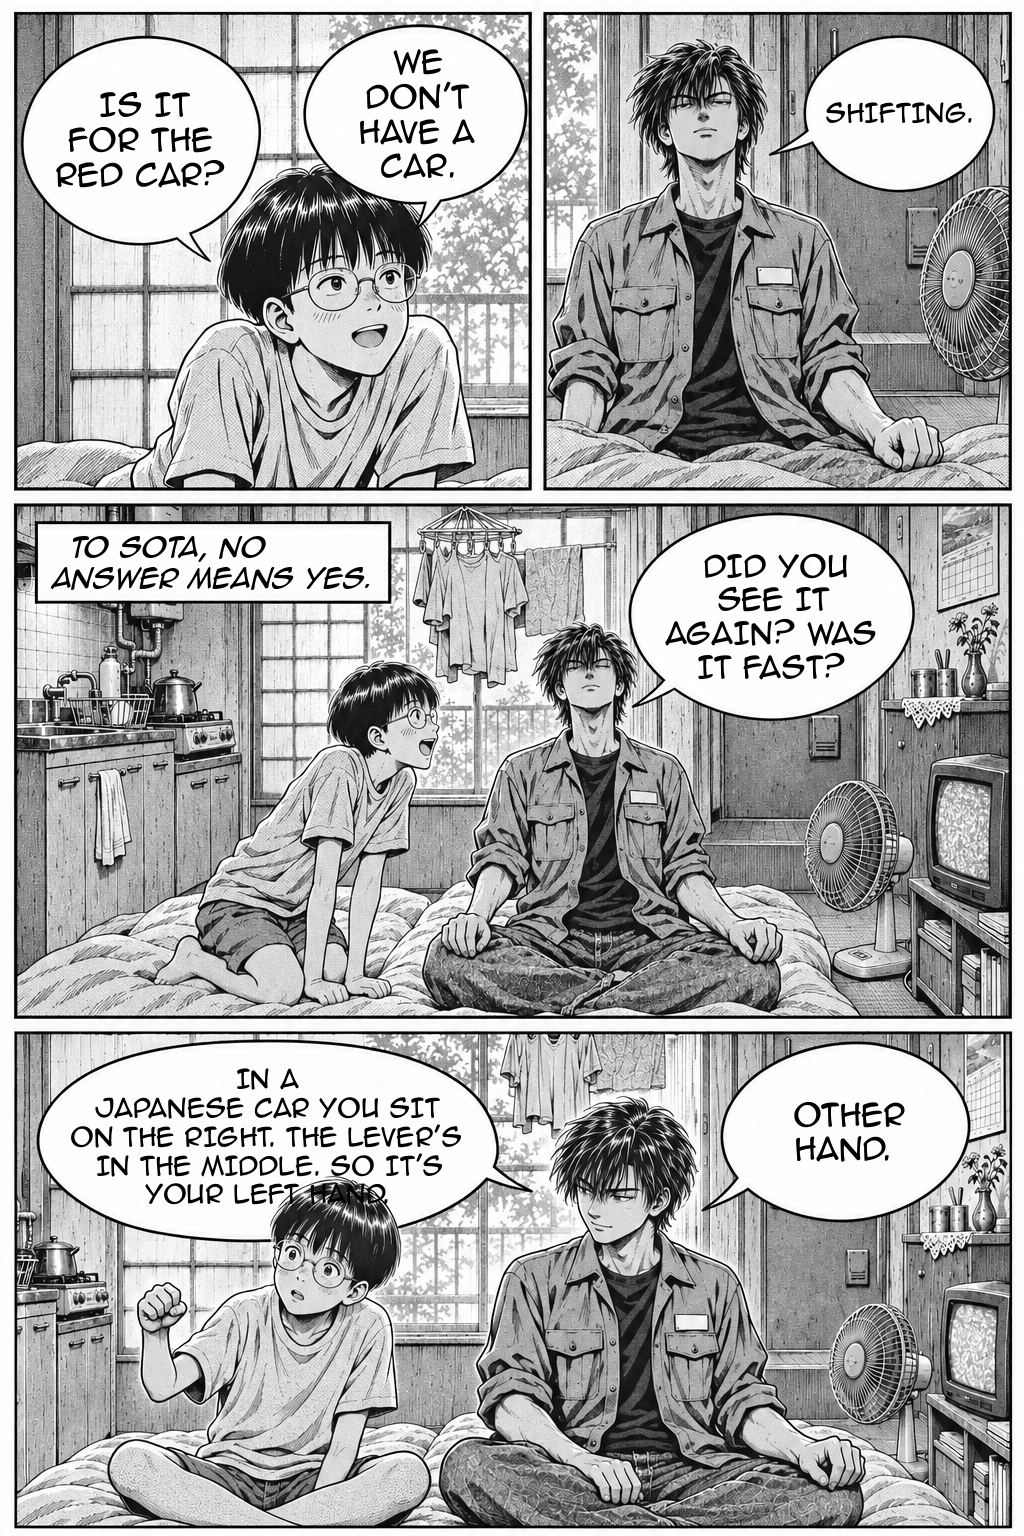
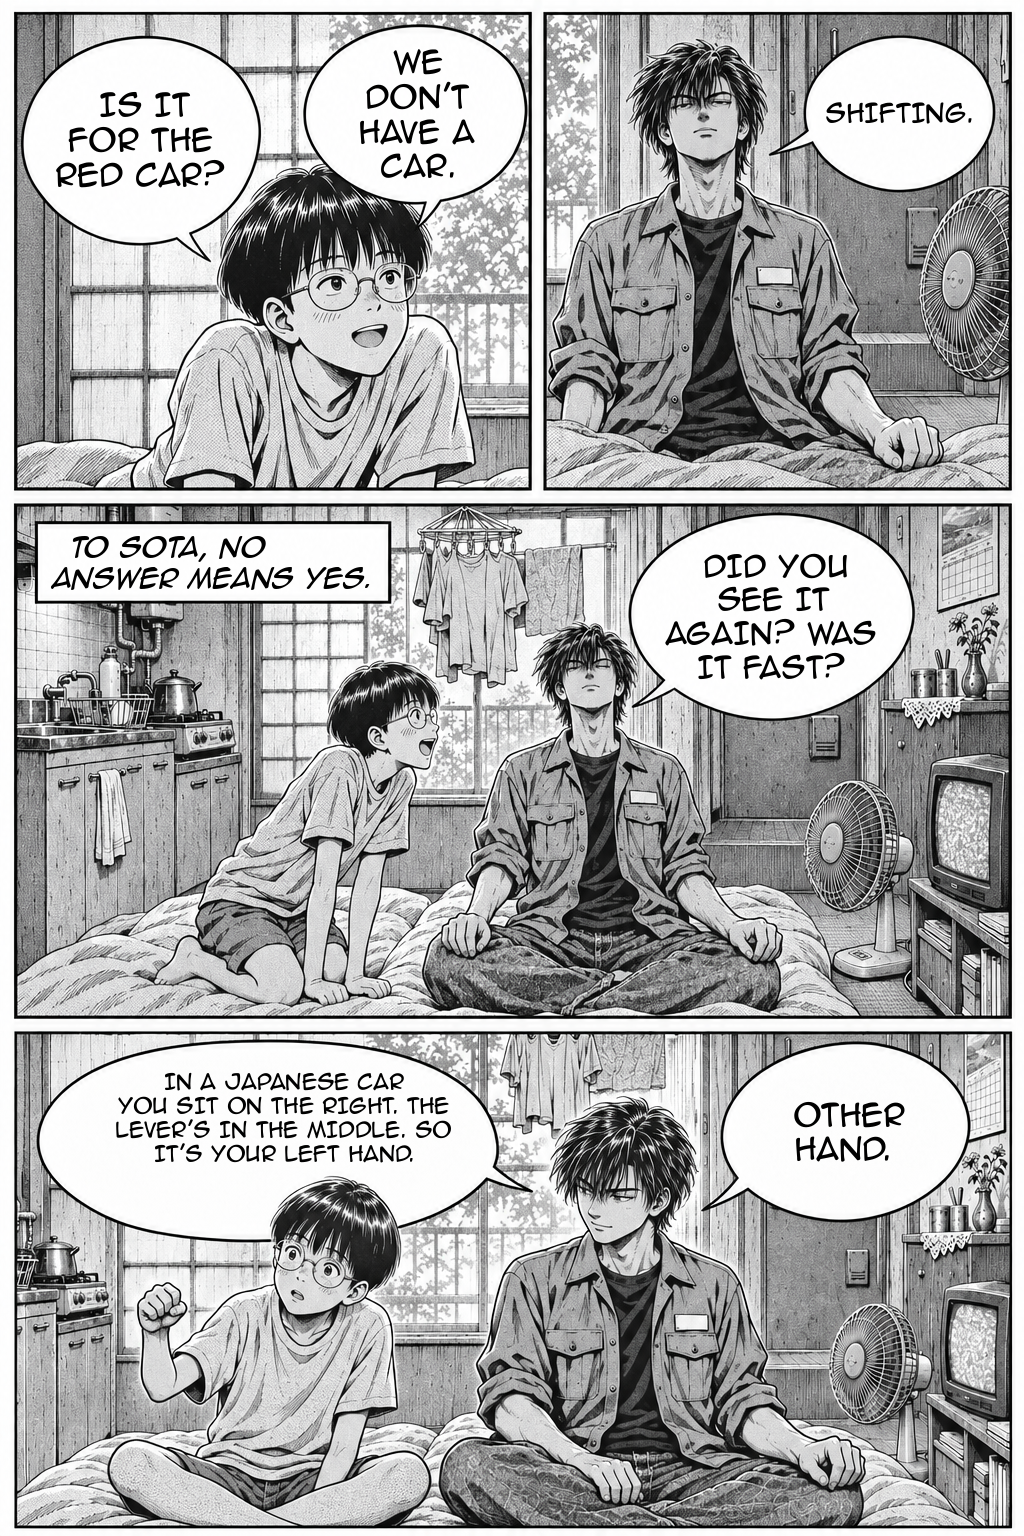
Ch4 "Practicing": all 30 pages, review, provenance
Pages 13-14 and the held-back p03, p04, p30 drawn; final lettering pass
with grown balloons and hand-placed lines; chapter built (30 pages).
Review notes, provenance statuses and two new art rules (stray balloons
in caption-only panels, shifting on air reading as punching).

Changed region(s): [[0.0625, 0.6875, 0.4688, 0.7812]]

diff --git a/artwork/PROVENANCE.md b/artwork/PROVENANCE.md
@@ -73,11 +73,38 @@ Rows appended by `production/az run` (full prompts and refs: `production/logs/pr
 | locations/bypass-overpass-dawn.png | 2026-11-15 | locations/bypass-overpass-night.png | approved (empty plate) | runner: 1 image_gen call(s); the newer guardrail reads only as the short bright section by the stairs |
 | locations/bookstore.png | 2026-11-15 | locations/classroom.png (style only) | approved (empty plate) | runner: 1 image_gen call(s) |
 | character-sheets/nobu.png | 2026-11-15 | character-sheets/akane.png (layout and style only) | approved | runner: 1 image_gen call(s), `production/sheets.yaml` (new `kind: sheet`); one character only |
-| pages/chapter-004/page-01.png | 2026-11-15 | character-sheets/dai-uniform.png, character-sheets/sota.png, locations/hayama-apartment.png | generated, not reviewed | runner: 1 image_gen call(s), empty lettering |
-| pages/chapter-004/page-02.png | 2026-11-15 | character-sheets/dai-uniform.png, character-sheets/sota.png, locations/hayama-apartment.png, pages/chapter-004/page-01.png | generated, not reviewed | runner: 1 image_gen call(s), empty lettering |
-| pages/chapter-004/page-02.art.png | 2026-11-15 | production/runs/edit-src/ch4-page-02.masked.png, character-sheets/dai-uniform.png, character-sheets/sota.png, locations/hayama-apartment.png, pages/chapter-004/page-01.png | generated, not reviewed | runner: 1 image_gen call(s), empty lettering |
-| pages/chapter-004/page-18.art.png | 2026-11-15 | pages/chapter-004/page-18.art.png, character-sheets/dai.png | generated, not reviewed | runner: 1 image_gen call(s), empty lettering |
-| pages/chapter-004/page-29.art.png | 2026-11-15 | pages/chapter-004/page-29.art.png, character-sheets/dai-uniform.png, locations/bypass-overpass-dawn.png | generated, not reviewed | runner: 1 image_gen call(s), empty lettering |
-| pages/chapter-004/page-03.png | 2026-11-15 | character-sheets/dai-uniform.png, character-sheets/sota.png, locations/hayama-apartment.png, pages/chapter-004/page-02.png | generated, not reviewed | runner: 1 image_gen call(s), empty lettering; lettering incomplete: CHECK: 5/5 lines placed; panels found 5, spec 5 (per-panel mapping) |
-| pages/chapter-004/page-04.png | 2026-11-15 | character-sheets/dai-uniform.png, character-sheets/sota.png, locations/hayama-apartment.png, pages/chapter-004/page-03.png | generated, not reviewed | runner: 1 image_gen call(s), empty lettering; lettering incomplete: CHECK: 7/7 lines placed; panels found 5, spec 5 (per-panel mapping) |
-| pages/chapter-004/page-30.png | 2026-11-15 | character-sheets/sota.png, character-sheets/dai-uniform.png, locations/hayama-apartment.png, pages/chapter-004/page-04.png | generated, not reviewed | runner: 1 image_gen call(s), empty lettering; lettering incomplete: CHECK: 3/3 lines placed; panels found 4, spec 4 (per-panel mapping) |
+| pages/chapter-004/page-01.png | 2026-11-15 | character-sheets/dai-uniform.png, character-sheets/sota.png, locations/hayama-apartment.png | approved | runner: 1 image_gen call(s), empty lettering; redraw of p01 (2nd take): no stray balloons, Dai's left hand curled low by the hip; captions painted bigger (draw: true) |
+| pages/chapter-004/page-02.png | 2026-11-15 | character-sheets/dai-uniform.png, character-sheets/sota.png, locations/hayama-apartment.png, pages/chapter-004/page-01.png | superseded (whole-page redraw: Sota's wrong hand did not read) | runner: 1 image_gen call(s), empty lettering |
+| pages/chapter-004/page-02.art.png | 2026-11-15 | production/runs/edit-src/ch4-page-02.masked.png, character-sheets/dai-uniform.png, character-sheets/sota.png, locations/hayama-apartment.png, pages/chapter-004/page-01.png | approved | runner: 1 image_gen call(s), empty lettering; bottom panel only (edit of a copy with that panel blanked grey): Sota raises his RIGHT hand, Dai looks at it; top three panels pasted back pixel-exact from the 1st take |
+| pages/chapter-004/page-18.art.png | 2026-11-15 | pages/chapter-004/page-18.art.png, character-sheets/dai.png | approved | runner: 1 image_gen call(s), empty lettering; edit: removed two stray empty balloons from the bottom panel; nit: the receipt shows unrelated long division |
+| pages/chapter-004/page-29.art.png | 2026-11-15 | pages/chapter-004/page-29.art.png, character-sheets/dai-uniform.png, locations/bypass-overpass-dawn.png | approved | runner: 1 image_gen call(s), empty lettering; edit: removed two stray empty balloons from the caption-only top panel |
+| pages/chapter-004/page-03.png | 2026-11-15 | character-sheets/dai-uniform.png, character-sheets/sota.png, locations/hayama-apartment.png, pages/chapter-004/page-02.png | approved | runner: 1 image_gen call(s), empty lettering; lettering incomplete: CHECK: 5/5 lines placed; panels found 5, spec 5 (per-panel mapping) |
+| pages/chapter-004/page-04.png | 2026-11-15 | character-sheets/dai-uniform.png, character-sheets/sota.png, locations/hayama-apartment.png, pages/chapter-004/page-03.png | approved | runner: 1 image_gen call(s), empty lettering; lettering incomplete: CHECK: 7/7 lines placed; panels found 5, spec 5 (per-panel mapping) |
+| pages/chapter-004/page-30.png | 2026-11-15 | character-sheets/sota.png, character-sheets/dai-uniform.png, locations/hayama-apartment.png, pages/chapter-004/page-04.png | approved | runner: 1 image_gen call(s), empty lettering; lettering incomplete: CHECK: 3/3 lines placed; panels found 4, spec 4 (per-panel mapping); nit: the raised shifting hand reads as his right; captions placed by manual boxes |
+| pages/chapter-004/page-01.png | 2026-11-15 | character-sheets/dai-uniform.png, character-sheets/sota.png, locations/hayama-apartment.png | superseded (two stray empty balloons; Dai's shifting hand read as a punch) | runner: 1 image_gen call(s), empty lettering |
+| pages/chapter-004/page-05.png | 2026-11-15 | character-sheets/dai.png, character-sheets/nobu.png, locations/classroom.png | approved | runner: 1 image_gen call(s), empty lettering |
+| pages/chapter-004/page-15.png | 2026-11-15 | character-sheets/dai.png, locations/bookstore.png | approved | runner: 1 image_gen call(s), empty lettering |
+| pages/chapter-004/page-18.png | 2026-11-15 | character-sheets/dai.png | superseded (two stray empty balloons in the bottom panel; edited) | runner: 1 image_gen call(s), empty lettering |
+| pages/chapter-004/page-20.png | 2026-11-15 | character-sheets/sota.png, character-sheets/dai.png, character-sheets/michiko.png, character-sheets/aya.png, locations/hayama-apartment.png | approved | runner: 1 image_gen call(s), empty lettering; balloons grown by the letterer |
+| pages/chapter-004/page-21.png | 2026-11-15 | character-sheets/sota.png, character-sheets/aya.png, character-sheets/michiko.png, character-sheets/dai.png, locations/hayama-apartment.png | approved | runner: 1 image_gen call(s), empty lettering |
+| pages/chapter-004/page-22.png | 2026-11-15 | character-sheets/michiko.png, character-sheets/dai.png, character-sheets/aya.png, character-sheets/sota.png, locations/hayama-apartment.png | approved | runner: 1 image_gen call(s), empty lettering; Mom's long line split over two painted balloons |
+| pages/chapter-004/page-24.png | 2026-11-15 | character-sheets/dai-uniform.png, character-sheets/kubo.png, locations/harbor-station-night.png | approved | runner: 1 image_gen call(s), empty lettering |
+| pages/chapter-004/page-26.png | 2026-11-15 | character-sheets/dai-uniform.png, character-sheets/kubo.png, locations/harbor-station-night.png | approved | runner: 1 image_gen call(s), empty lettering |
+| pages/chapter-004/page-28.png | 2026-11-15 | character-sheets/kubo.png, character-sheets/dai-uniform.png, locations/harbor-station-night.png | approved | runner: 1 image_gen call(s), empty lettering; lettering incomplete: CHECK: 6/6 lines placed; panels found 1, spec 6 (page-wide mapping); lettering by manual boxes (only one panel detected) |
+| pages/chapter-004/page-29.png | 2026-11-15 | character-sheets/dai-uniform.png, locations/bypass-overpass-dawn.png | superseded (two stray empty balloons in the top panel; edited) | runner: 1 image_gen call(s), empty lettering |
+| pages/chapter-004/page-02.png | 2026-11-15 | character-sheets/dai-uniform.png, character-sheets/sota.png, locations/hayama-apartment.png, pages/chapter-004/page-01.png | superseded (both brothers punch forward; the wrong-hand beat did not read) | runner: 1 image_gen call(s), empty lettering; lettering incomplete: CHECK: 7/7 lines placed; panels found 5, spec 4 (page-wide mapping) |
+| pages/chapter-004/page-06.png | 2026-11-15 | character-sheets/dai.png, character-sheets/nobu.png, locations/classroom.png, pages/chapter-004/page-05.png | approved | runner: 1 image_gen call(s), empty lettering |
+| pages/chapter-004/page-16.png | 2026-11-15 | character-sheets/dai.png, locations/bookstore.png, pages/chapter-004/page-15.png | approved | runner: 1 image_gen call(s), empty lettering |
+| pages/chapter-004/page-19.png | 2026-11-15 | character-sheets/dai.png, pages/chapter-004/page-18.png | approved | runner: 1 image_gen call(s), empty lettering; nits: receipt sums are unrelated numbers; the folding beat shows only the torn receipt |
+| pages/chapter-004/page-23.png | 2026-11-15 | character-sheets/michiko.png, character-sheets/dai.png, locations/hayama-apartment.png, pages/chapter-004/page-22.png | approved | runner: 1 image_gen call(s), empty lettering; nit: a foot is inside the open sneaker in the close-up |
+| pages/chapter-004/page-25.png | 2026-11-15 | character-sheets/kubo.png, character-sheets/dai-uniform.png, locations/harbor-station-night.png, pages/chapter-004/page-24.png | approved | runner: 1 image_gen call(s), empty lettering; Kubo's explanation in a painted balloon so it doesn't cover his face |
+| pages/chapter-004/page-27.png | 2026-11-15 | character-sheets/dai-uniform.png, locations/harbor-station-night.png, locations/harbor-road-night.png, pages/chapter-004/page-26.png | approved | runner: 1 image_gen call(s), empty lettering; 180SX: eye-level front three-quarter, driver's flank, nose to the lower right; the only exterior car shot in the chapter |
+| pages/chapter-004/page-07.png | 2026-11-15 | character-sheets/nobu.png, character-sheets/dai.png, locations/classroom.png, pages/chapter-004/page-06.png | approved | runner: 1 image_gen call(s), empty lettering |
+| pages/chapter-004/page-17.png | 2026-11-15 | character-sheets/dai.png, locations/bookstore.png, pages/chapter-004/page-16.png | approved | runner: 1 image_gen call(s), empty lettering |
+| pages/chapter-004/page-08.png | 2026-11-15 | character-sheets/nobu.png, character-sheets/dai.png, locations/classroom.png, pages/chapter-004/page-07.png | approved | runner: 1 image_gen call(s), empty lettering |
+| pages/chapter-004/page-09.png | 2026-11-15 | character-sheets/nobu.png, character-sheets/dai.png, locations/classroom.png, pages/chapter-004/page-08.png | approved | runner: 1 image_gen call(s), empty lettering |
+| pages/chapter-004/page-10.png | 2026-11-15 | character-sheets/nobu.png, character-sheets/dai.png, locations/classroom.png, pages/chapter-004/page-09.png | approved | runner: 1 image_gen call(s), empty lettering |
+| pages/chapter-004/page-11.png | 2026-11-15 | character-sheets/dai.png, character-sheets/nobu.png, locations/classroom.png, pages/chapter-004/page-10.png | approved | runner: 1 image_gen call(s), empty lettering |
+| pages/chapter-004/page-12.png | 2026-11-15 | character-sheets/nobu.png, character-sheets/dai.png, locations/classroom.png, pages/chapter-004/page-11.png | approved | runner: 1 image_gen call(s), empty lettering |
+| pages/chapter-004/page-13.png | 2026-11-15 | character-sheets/dai.png, character-sheets/nobu.png, locations/classroom.png, pages/chapter-004/page-12.png | approved | runner: 1 image_gen call(s), empty lettering |
+| pages/chapter-004/page-14.png | 2026-11-15 | character-sheets/nobu.png, character-sheets/dai.png, pages/chapter-004/page-13.png | approved | runner: 1 image_gen call(s), empty lettering |

diff --git a/reviews/chapter-004.md b/reviews/chapter-004.md
@@ -1,0 +1,51 @@
+# Chapter 4 review
+
+Build: `./tools-build.sh 004` -> `build/akai-zanzo-ch004.{cbz,pdf}` (30 pages), copied to the documents folder.
+Script: `scripts/chapter-004.md` (adapts light novel Vol. 1 Ch. 1, "Practicing"). Spec: `production/chapter-004.yaml`.
+
+Drawn on 2026-11-15 in one session: 40 image generations in all.
+- 5 references: Nobu Kawamata's sheet (`character-sheets/nobu.png`, new `kind: sheet` in `production/sheets.yaml`),
+  the harbor station and harbor road night plates redrawn DRY, a bookstore plate, and a dawn plate of the
+  overpass curve with the newer guardrail section.
+- 30 pages, then 5 redraws or edits (below).
+
+Every page was reviewed on its own, then in consecutive pairs and as overview sheets
+(`production/runs/contact-chapter-004/ch4-overview-{01-10,11-20,21-30}.jpg`, read right to left).
+
+## Redrawn or edited
+- **p01** (whole page, 2nd take): the 1st take drew two stray empty balloons in a caption-only panel, and Dai's
+  "shifting" hand read as a punch. The spec now spells out the left hand (low by the hip, curled round a knob, on
+  the image's right when he faces us), and the builder tells panels with captions but no dialogue: no balloons.
+- **p02** (bottom panel only): the "Other hand" beat didn't read. A whole-page 2nd take was no better. The 3rd job
+  edited a copy with the bottom panel blanked grey: Sota now holds up his RIGHT hand and Dai looks at it. The top
+  three panels are the 1st take's pixels.
+- **p18, p29** (edits): two stray empty balloons each (bottom panel / top panel), removed.
+- p03, p04 and p30 were held back until p02 was fixed, because they continue from it.
+
+## Lettering
+- The letterer now **grows balloons drawn too small** for phone-readable type: it paints a bigger white balloon over
+  the drawn one, inside its panel, with the tail toward the original tail tip (`grow: false` on a page turns it off).
+  It also keeps the per-page size cap at 24 px or more. Result: every line is 21-29 px; the end caption is 22 px
+  (`style: small`, on purpose).
+- Hand placed: p28 (only one panel detected, so manual boxes), p30 (caption order), p22 (Mom's long line split
+  over two balloons, every word kept), p25 (Kubo's explanation moved off his face), p02 (text kept clear of Sota's
+  hair), p07, p24.
+- All speakers checked against the art: right-to-left order, one speaker per panel, tails on the speaker.
+
+## Checks
+- **Akane and the Roadster are not in the chapter.** The only exterior car shot is the 180SX (p27, eye-level front
+  three-quarter on the driver's flank, nose to the lower right, pop-ups down); p27's top panel is just two far
+  headlights, and p08's GT-R is a printed magazine cover. No car pose repeats.
+- **Dry nights:** p24-p28 are dry with the new plates; the station keeps one camera side (pumps left, office right).
+- **Left hand:** p01-p04 and p30 show the shifting with the left hand except where noted.
+- Classroom: Nobu sits behind Dai on every page; Nobu matches his sheet throughout and never looks like Dai.
+
+## Kept nits
+- p18, p19 (receipt close-ups): the long division shows unrelated numbers instead of 280,000 - 18,787.
+- p19: the last panel shows the torn receipt, not the folding.
+- p23: in the close-up of the open sneaker a foot is inside it.
+- p30: the arm Dai raises reads as his right hand.
+- p21-p23: night outside the window at dinner (fine for about 7 p.m., a little early for August).
+- p17: the owner's two close-ups have nearly the same pose (reads as a comic repeat).
+- Unscripted CRUNCH / RUSTLE / BUZZZ / FSSSH sound effects on p26-p28, and p09 BAM, p12 HA HA HA.
+- p02 bottom: Dai's long balloon is 20 px, the smallest line in the chapter.

diff --git a/prompts/art-direction.md b/prompts/art-direction.md
@@ -26,6 +26,8 @@
 - **Right-hand drive in side views.** "Right-hand drive" alone doesn't stick. In a side view with the driver at the near window, state the direction: the car's FRONT points to the RIGHT edge of the panel (so we see its right/driver side, like a face turned right shows its right cheek). Front pointing LEFT shows the passenger (left) side, with the driver on the far side. Corrected 2026-11-15: chapters 1-3 used the reversed rule, so some of their side views show a mirror-image car; accepted, don't redraw.
 - **Keep the camera on one side across pages (180-degree rule).** Each page is drawn in isolation, so the model may jump to the opposite end of a car or room between pages, which reads as the car "turning around". When a scene continues, pass the previous page as a reference and say "seen from the SAME side as the previous page's last panel". Review consecutive pages side by side, not only one at a time.
 - **The model copies car poses from its references.** Given the full car sheet, it pastes the sheet's flat side view; given a previous page with a car shot, it pastes that car again, so one copy snowballs through a chapter (ch3 p15, p18 and p26 had the same side view, front left, pop-ups up, spray behind). So: give every exterior car shot an explicit, different camera angle (`camera:` on the car's cast entry: height, side, which flank, where the nose points); attach an angle-specific crop of the car sheet instead of the whole sheet (`view: front34`, `rear`, `interior` in `production/cast.yaml`); and never pass a page that contains a similar car shot as a reference: use the location plate and approved interior pages for continuity. To redraw one panel, blank it to flat grey in a copy of the page and use that copy as the edit source, then paste the new panel back into the approved page. `production/az lint` warns about car shots without `camera:` and about car pages that pass another car page as a reference. Before approving, check that no two car shots in a chapter share a pose.
+- **Caption-only panels get stray balloons.** The model adds empty speech balloons to panels that only have captions (ch4 p01, p18, p29). The builder now says "NO speech balloons in this panel" for those; check for them on review and edit them out.
+- **Shifting on air reads as punching.** "Left hand on an invisible lever" came out as a fist thrust forward. Spell it out: the hand low beside the hip at console height, fingers curled round a small knob, and which side of the image it is on when the person faces the camera (ch4 p01-p04).
 - **Vary shot sizes; keep the protagonist in key beats.** Don't repeat the same flat side view panel after panel. Emotional beats want close-ups and over-the-shoulder shots that keep Dai in frame.
 
 ## Production tools

diff --git a/production/README.md b/production/README.md
@@ -86,6 +86,9 @@ pages:
 ```
 
 Plates (`plates.yaml`) use `id:` instead of `page:`, `kind: plate`, a `location` and a `description`.
+Character sheets (`sheets.yaml`) use `id:`, `kind: sheet` and a `description` (one character per sheet; an existing
+sheet as a ref for layout and style only). Minor cast without a sheet (cast.yaml entry with no `ref`) and background
+cars without a sheet are described by their traits only.
 
 ### What the builder adds automatically
 
@@ -148,6 +151,9 @@ It prints a report per line (box, size, lines) and saves a debug overlay to `run
 When detection fails, give the line a manual box: `box: [x, y, w, h]` in art pixels (the report lists unused
 candidates you can copy). Re-run `production/az letter -c N -p P` after editing the spec; it never calls the image model.
 
+Balloons drawn too small for 24 px type are grown automatically: the letterer paints a bigger balloon over the drawn
+one, inside its panel, tail toward the old tail tip, and reports `grew a small balloon` (`grow: false` on a page turns
+it off). Check grown balloons for faces they now cover and pin those with a manual box (ch4 p25).
 When the drawn balloon is too small for its line, add `draw: true` (and for a balloon `tail: [x, y]`, the tail tip):
 the letterer paints a fresh white balloon (or caption box) with a black outline at `box` before setting the text.
 Make the new shape fully cover the drawn one. A long line can be split over two such balloons from the same
